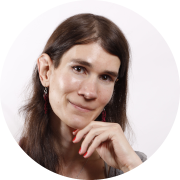
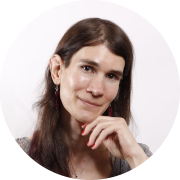
Update Photos and Title

diff --git a/public/index.html b/public/index.html
@@ -40,7 +40,7 @@
 		            <div class="profile-content">
                         <h1 class="name">Louise Zylina Racette</h1>
                         <h4 class="desc"><span style="color: hotpink;">(She/Her)</span></h4>
-		                <h2 class="desc">Full-Stack Developer/Team Lead</h2>   
+		                <h2 class="desc">Full-Stack Developer/DevOps/Team Lead</h2>   
 		                <ul class="social list-inline">
 		                    <li class="list-inline-item"><a href="https://www.instagram.com/via_unnamed_roads/"><i class="fa-brands fa-instagram"></i></a></li>
 		                    <li class="list-inline-item"><a href="https://www.linkedin.com/in/louiseracette"><i class="fa-brands fa-linkedin-in"></i></a></li>